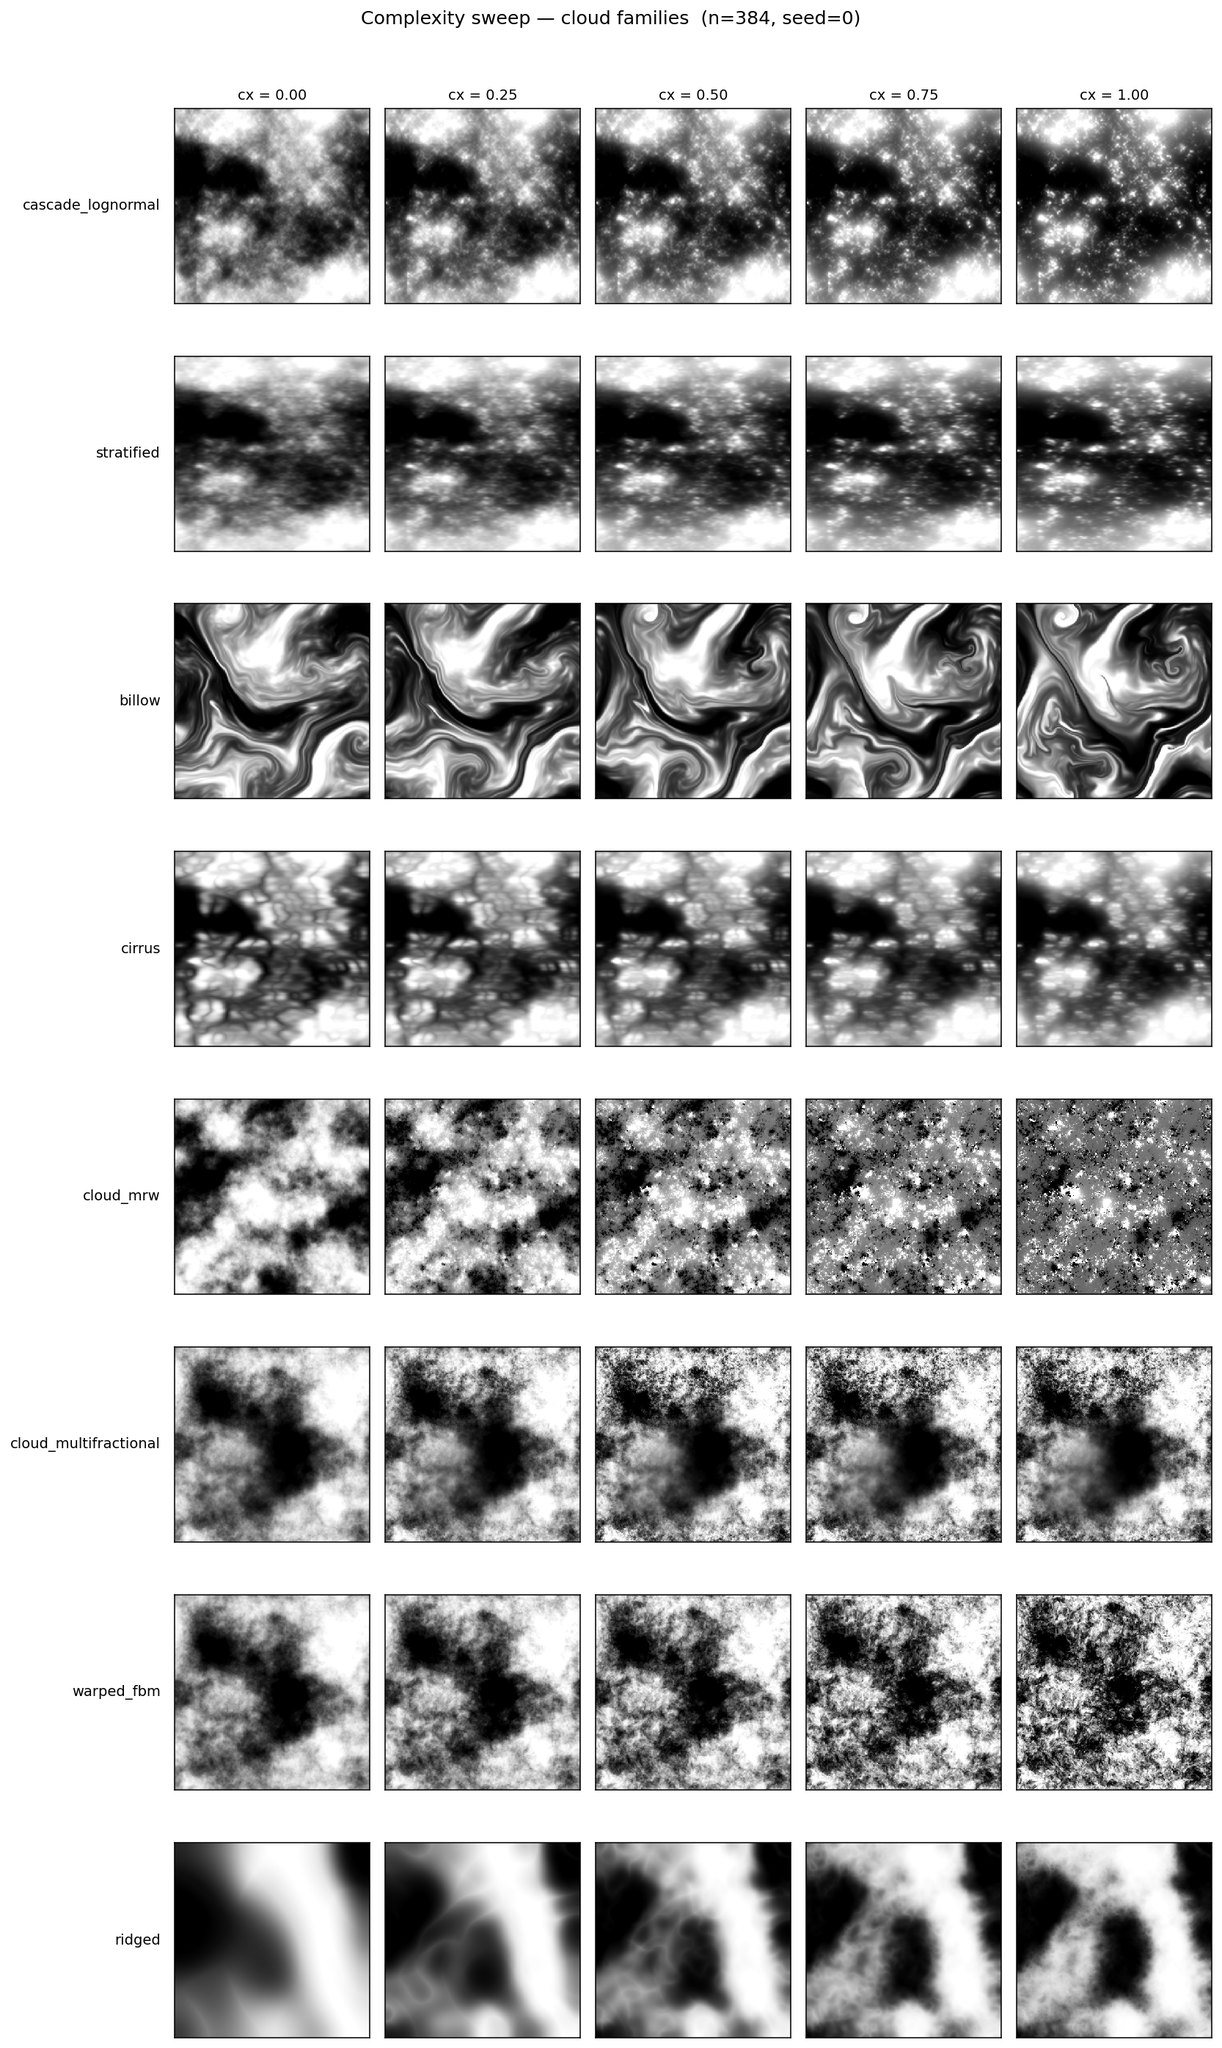
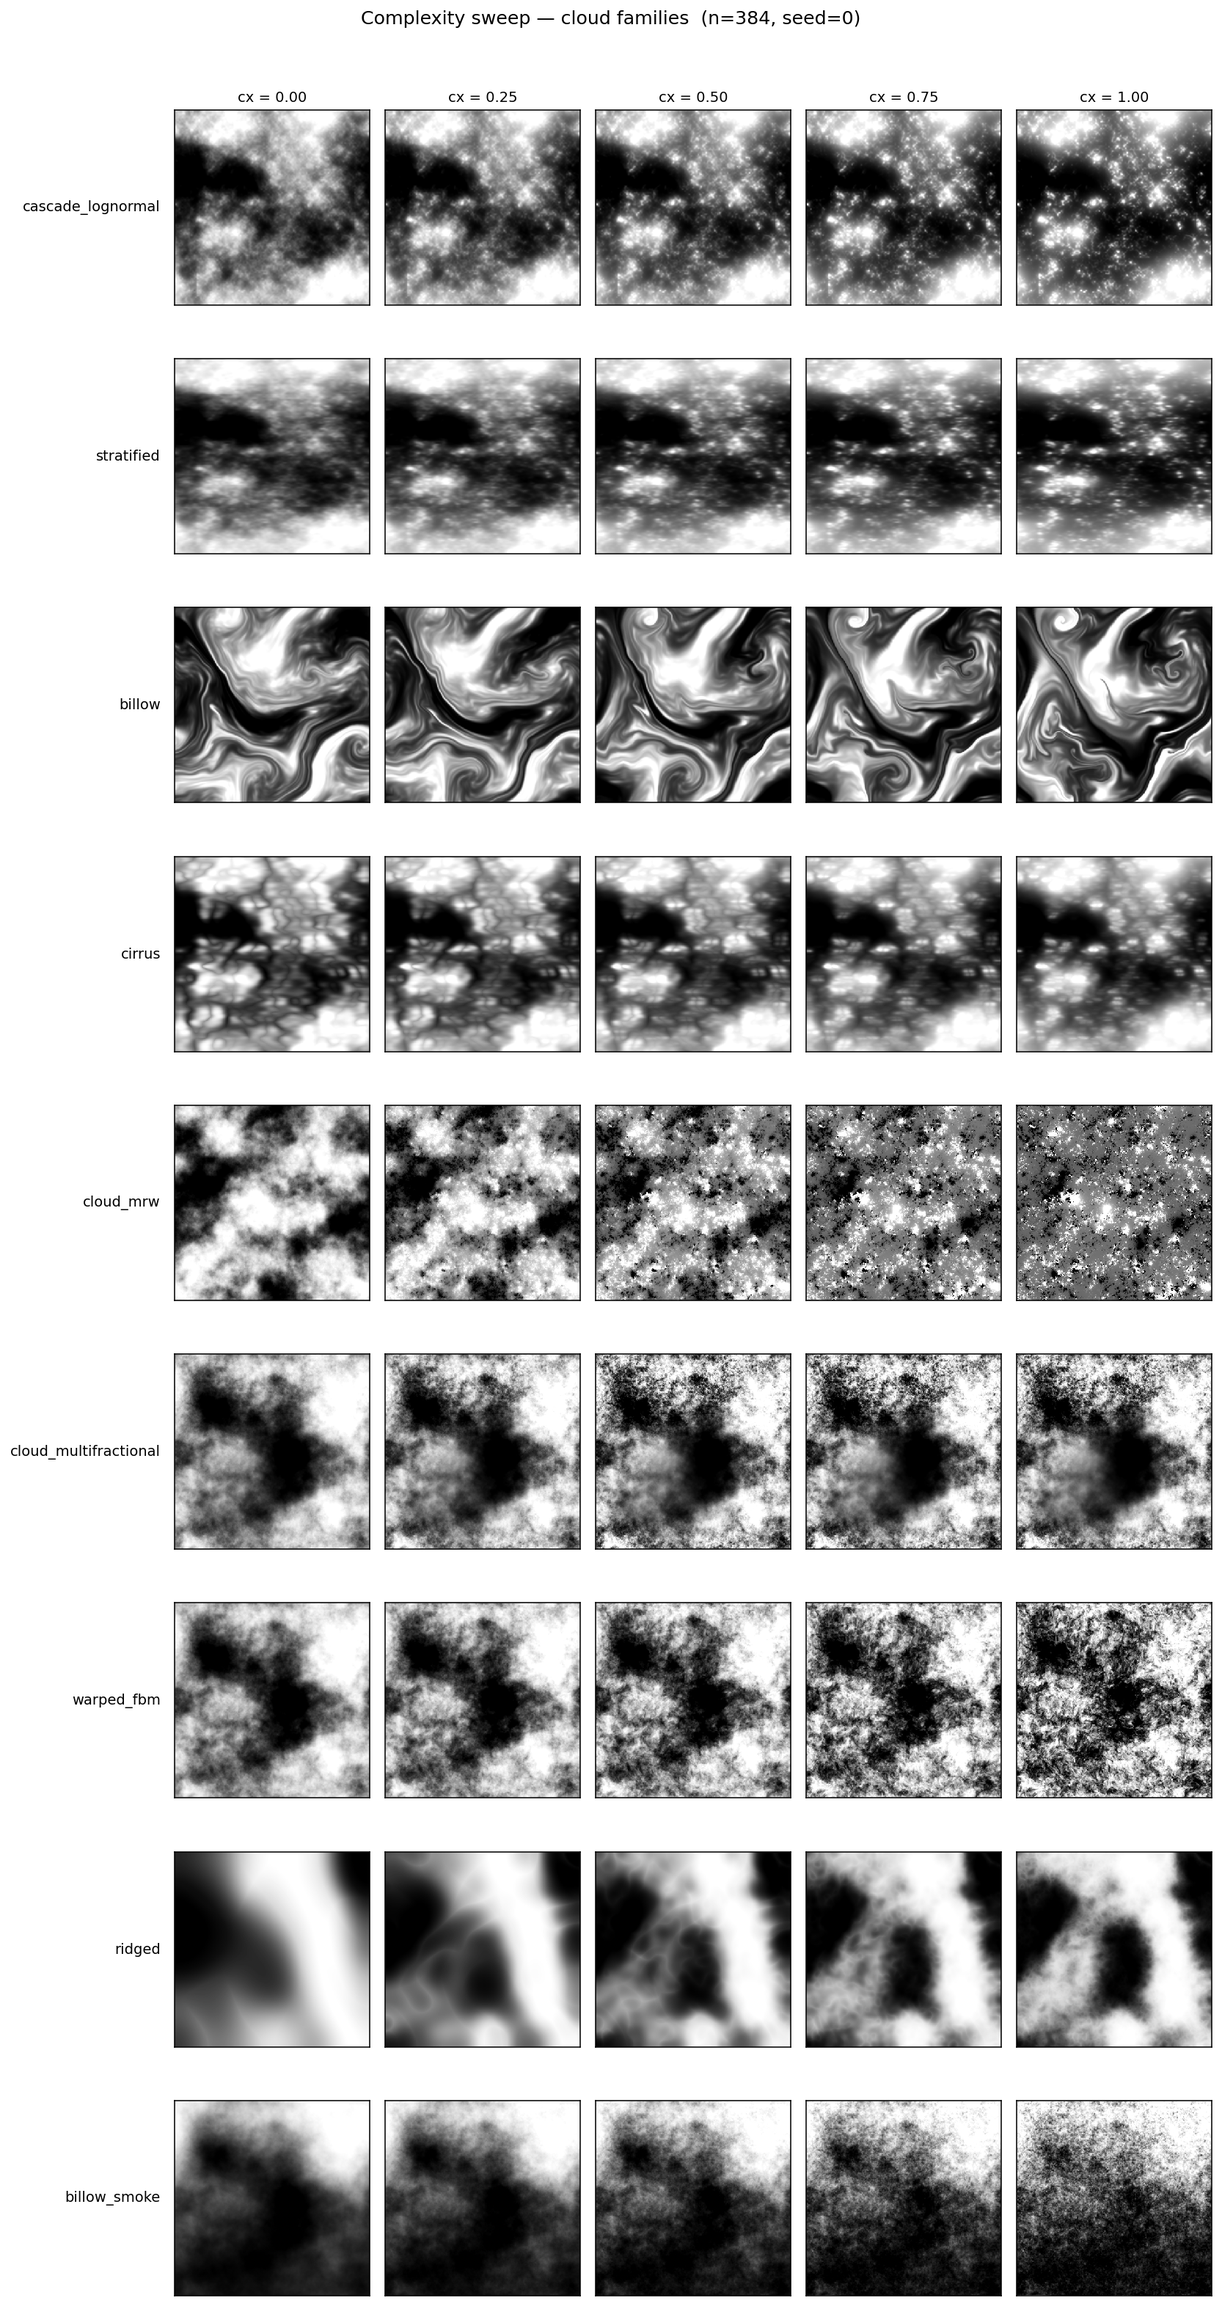
Retire smoke domain: drop chimney_plume, move billow_smoke to clouds
chimney_plume is removed entirely (seed variance never read well across the
column geometry). billow_smoke gets re-homed under the cloud domain — it
behaves like a sky/cloud structure (broad billowing mass, fBM-beta routed)
rather than a distinct substance, and the smoke domain becomes a single-
family ghost without it.

Module surface: mfractal.smoke is deleted; SMOKE_FAMILIES and chimney_plume
no longer exported. CLOUD_FAMILIES grows from 8 to 9. dataset.generate()
routes billow_smoke through the cloud branch (type=cloud in manifests).

Benchmarks (cx + seed sweeps, color montage, descriptors sweep, diffusion
analyze + prompts) all updated to drop the smoke domain. Stale smoke-domain
figures (18_cx_sweep_smoke, 24_seed_sweep_smoke) removed. The historical
diffusion sweep artifacts under benchmarks/diffusion/out/ are left as-is —
they record a frozen sweep at a point in time when smoke was its own
domain.

diff --git a/mfractal/clouds.py b/mfractal/clouds.py
@@ -21,6 +21,7 @@ Reliable multifractality readout is the wavelet-leader c2
 (mfractal.quantify.wavelet_leaders_2d); bin experimental stimuli by MEASURED c2.
 """
 import numpy as np
+from numpy.random import default_rng
 from scipy.ndimage import gaussian_filter, map_coordinates, zoom
 
 from .generators import _normalize01, _fractional_field
@@ -29,12 +30,12 @@ from .fluids import _vortex_flow, _advect
 
 __all__ = [
     "cascade_lognormal", "warped_fbm", "stratified", "billow", "cirrus", "ridged",
-    "cloud_mrw", "cloud_multifractional", "CLOUD_FAMILIES",
+    "cloud_mrw", "cloud_multifractional", "billow_smoke", "CLOUD_FAMILIES",
 ]
 
 CLOUD_FAMILIES = [
     "cascade_lognormal", "stratified", "billow", "cirrus", "ridged",
-    "warped_fbm", "cloud_mrw", "cloud_multifractional",
+    "warped_fbm", "cloud_mrw", "cloud_multifractional", "billow_smoke",
 ]
 
 
@@ -157,3 +158,40 @@ def cloud_multifractional(n=512, seed=None, complexity=0.5):
     f = multifractional(n, fd_center=_L(2.2, 2.7, c), fd_range=_L(0.3, 1.7, c),
                         scale=5.0, seed=seed)
     return _cloud_bright(_normalize01(f))
+
+
+def billow_smoke(n=512, seed=None, complexity=0.5):
+    """Broad rising billowing smoke cloud filling most of the frame.
+
+    complexity in [0,1]: fBM beta sweeps from 4.0 (smooth haze) down to 2.0
+    (turbulent wisps). The rise envelope gets a seed-dependent slant and
+    lateral pinch so different seeds show distinct billow shapes, not just
+    different internal textures.
+    """
+    cx = float(np.clip(complexity, 0, 1))
+    rng = default_rng(seed)
+    yy, xx = np.mgrid[0:n, 0:n].astype(float) / n
+
+    horizon = 0.05 + 0.20 * rng.random()
+    slant = 0.25 * (rng.random() - 0.5) * 2.0
+    pinch_x = 0.3 + 0.4 * rng.random()
+    pinch_w = 0.25 + 0.20 * rng.random()
+    pinch_str = 0.20 + 0.20 * rng.random()
+    rise_y = (1 - yy) + slant * (xx - 0.5)
+    pinch = 1.0 - pinch_str * np.exp(-((xx - pinch_x) ** 2) / (2 * pinch_w ** 2))
+    rise = 0.40 + 0.55 * np.clip(rise_y - horizon, 0, 1) * pinch
+    rise = gaussian_filter(rise, 1.5)
+
+    beta = 4.0 - 2.0 * cx
+    base = _normalize01(_fractional_field(n, beta=beta, seed=seed))
+
+    yyp, xxp = np.mgrid[0:n, 0:n].astype(float)
+    swirl_amp = 22.0 * cx
+    swirl_scale = n / (6.0 + 18.0 * cx)
+    fy = gaussian_filter(rng.normal(0, 1, (n, n)), swirl_scale) * swirl_amp
+    fx = gaussian_filter(rng.normal(0, 1, (n, n)), swirl_scale) * swirl_amp
+
+    field0 = 0.30 * rise + 0.65 * base * rise
+    warped = map_coordinates(field0, [(yyp + fy) % n, (xxp + fx) % n],
+                             order=1, mode="grid-wrap")
+    return _normalize01(warped)

diff --git a/mfractal/__init__.py b/mfractal/__init__.py
@@ -9,7 +9,7 @@ Three process-based organic generators:
 Natural-surface textures for pareidolia (rock / marble / agate / cracked stone):
     from mfractal import rock_texture, marble, agate, weathered, granite, cellular_stone
 """
-from . import generators, quantify, descriptors, stimuli, flagships, organic, textures, fluids, dataset, clouds, bark, smoke, fire, cloudscape as _cloudscape_mod
+from . import generators, quantify, descriptors, stimuli, flagships, organic, textures, fluids, dataset, clouds, bark, fire, cloudscape as _cloudscape_mod
 from .flagships import (multifractal_cloud, multifractional, punch,
                         complexity, sample_battery)
 from .organic import dla, stir_and_fold, branching_network
@@ -27,9 +27,9 @@ from .fluids import (eddies, vorticity, plume, curl_weave, dye_diffusion,
                      rheoscopic, choppy, FLUID_FAMILIES, CX_FLUIDS)
 from .cloudscape import cloudscape, SKY_PALETTES
 from .clouds import (cascade_lognormal, stratified, billow, cirrus, ridged,
-                     warped_fbm, cloud_mrw, cloud_multifractional, CLOUD_FAMILIES)
+                     warped_fbm, cloud_mrw, cloud_multifractional, billow_smoke,
+                     CLOUD_FAMILIES)
 from .bark import burled_oak, riven_oak, BARK_FAMILIES
-from .smoke import chimney_plume, billow_smoke, SMOKE_FAMILIES
 from .fire import firestorm, lava_pool, volcanic_fissure, FIRE_FAMILIES
 from .dataset import build_dataset, validate_dataset, generate
 from .quantify import wavelet_leaders_2d
@@ -42,12 +42,11 @@ from .descriptors import (directional_hurst, anisotropy_index, subband_anisotrop
 __all__ = [
     "generators", "quantify", "stimuli", "flagships", "organic", "textures", "fluids",
     "bark", "burled_oak", "riven_oak", "BARK_FAMILIES",
-    "smoke", "chimney_plume", "billow_smoke", "SMOKE_FAMILIES",
     "fire", "firestorm", "lava_pool", "volcanic_fissure", "FIRE_FAMILIES",
     "eddies", "vorticity", "plume", "curl_weave", "dye_diffusion", "rheoscopic", "choppy", "FLUID_FAMILIES", "CX_FLUIDS",
     "dataset", "build_dataset", "validate_dataset", "generate", "wavelet_leaders_2d",
     "clouds", "cloudscape", "SKY_PALETTES", "CLOUD_FAMILIES", "cascade_lognormal", "stratified", "billow", "cirrus",
-    "ridged", "warped_fbm", "cloud_mrw", "cloud_multifractional",
+    "ridged", "warped_fbm", "cloud_mrw", "cloud_multifractional", "billow_smoke",
     "multifractal_cloud", "multifractional", "punch", "complexity", "sample_battery",
     "dla", "stir_and_fold", "branching_network",
     "rock_texture", "marble", "agate", "weathered", "granite", "cellular_stone",

diff --git a/mfractal/dataset.py b/mfractal/dataset.py
@@ -15,13 +15,12 @@ import csv
 import math
 import numpy as np
 
-from . import textures, fluids, clouds, bark, smoke, fire
+from . import textures, fluids, clouds, bark, fire
 from .textures import ROCK_FAMILIES
 from .fluids import FLUID_FAMILIES
 from .clouds import CLOUD_FAMILIES
 from .fluids import CX_FLUIDS
 from .bark import BARK_FAMILIES
-from .smoke import SMOKE_FAMILIES
 from .fire import FIRE_FAMILIES
 from .flagships import punch
 from .quantify import wavelet_leaders_2d, mfdfa_2d, spectrum_summary
@@ -40,8 +39,6 @@ def generate(family, n=256, complexity=None, seed=None):
         return getattr(clouds, family)(n, seed=seed, complexity=(0.5 if complexity is None else complexity))
     if family in BARK_FAMILIES:
         return getattr(bark, family)(n, seed=seed, complexity=(0.5 if complexity is None else complexity))
-    if family in SMOKE_FAMILIES:
-        return getattr(smoke, family)(n, seed=seed, complexity=(0.5 if complexity is None else complexity))
     if family in FIRE_FAMILIES:
         return getattr(fire, family)(n, seed=seed, complexity=(0.5 if complexity is None else complexity))
     fn = getattr(textures, family)
@@ -85,7 +82,6 @@ def build_dataset(out_dir, families=None, complexities=(0.0, 0.25, 0.5, 0.75, 1.
                        "type": ("fluid" if family in FLUID_FAMILIES
                                 else "cloud" if family in CLOUD_FAMILIES
                                 else "bark" if family in BARK_FAMILIES
-                                else "smoke" if family in SMOKE_FAMILIES
                                 else "fire" if family in FIRE_FAMILIES
                                 else "rock"),
                        "complexity": ("" if c is None else round(c, 4)),

diff --git a/benchmarks/cx_sweep_per_domain.py b/benchmarks/cx_sweep_per_domain.py
@@ -1,17 +1,16 @@
 """
 Complexity sweep for every family, one figure per domain.
 
-For each domain (rock, cloud, fluid, bark, smoke, fire):
+For each domain (rock, cloud, fluid, bark, fire):
   rows    = families in that domain
   columns = complexity values 0.0, 0.25, 0.5, 0.75, 1.0
-  cell    = colorized image via colorize_for_family
+  cell    = grayscale image (mf.punch)
 
 Outputs:
   benchmarks/figures/14_cx_sweep_rock.png
   benchmarks/figures/15_cx_sweep_cloud.png
   benchmarks/figures/16_cx_sweep_fluid.png
   benchmarks/figures/17_cx_sweep_bark.png
-  benchmarks/figures/18_cx_sweep_smoke.png
   benchmarks/figures/19_cx_sweep_fire.png
 """
 from __future__ import annotations
@@ -30,20 +29,18 @@ DOMAIN = {
     "rock":  ["marble","agate","weathered","granite","vesicular","turbulent",
               "schist","serpentinite","flow_banded","convoluted","gneiss"],
     "cloud": ["cascade_lognormal","stratified","billow","cirrus","cloud_mrw",
-              "cloud_multifractional","warped_fbm","ridged"],
+              "cloud_multifractional","warped_fbm","ridged","billow_smoke"],
     "fluid": ["curl_weave","choppy","eddies","vorticity","dye_diffusion","rheoscopic"],
     "bark":  ["burled_oak","riven_oak"],
-    "smoke": ["chimney_plume","billow_smoke"],
     "fire":  ["firestorm","lava_pool","volcanic_fissure"],
 }
 CXS = [0.0, 0.25, 0.5, 0.75, 1.0]
 N = 384
 SEED = 0
 
-# Use figure index 14..19 so we don't collide with existing figures 1..13.
 DOMAIN_FIG_IDX = {
     "rock": 14, "cloud": 15, "fluid": 16,
-    "bark": 17, "smoke": 18, "fire": 19,
+    "bark": 17, "fire": 19,
 }
 
 

diff --git a/benchmarks/seed_sweep_per_domain.py b/benchmarks/seed_sweep_per_domain.py
@@ -1,7 +1,7 @@
 """
 Seed-variation sweep at mid complexity (cx=0.5), one figure per domain.
 
-For each domain (rock, cloud, fluid, bark, smoke, fire):
+For each domain (rock, cloud, fluid, bark, fire):
   rows    = families in that domain
   columns = seeds 0, 1, 2, 3, 4
   cell    = grayscale mf.punch(image)
@@ -11,7 +11,6 @@ Outputs:
   benchmarks/figures/21_seed_sweep_cloud.png
   benchmarks/figures/22_seed_sweep_fluid.png
   benchmarks/figures/23_seed_sweep_bark.png
-  benchmarks/figures/24_seed_sweep_smoke.png
   benchmarks/figures/25_seed_sweep_fire.png
 """
 from __future__ import annotations
@@ -29,10 +28,9 @@ DOMAIN = {
     "rock":  ["marble","agate","weathered","granite","vesicular","turbulent",
               "schist","serpentinite","flow_banded","convoluted","gneiss"],
     "cloud": ["cascade_lognormal","stratified","billow","cirrus","cloud_mrw",
-              "cloud_multifractional","warped_fbm","ridged"],
+              "cloud_multifractional","warped_fbm","ridged","billow_smoke"],
     "fluid": ["curl_weave","choppy","eddies","vorticity","dye_diffusion","rheoscopic"],
     "bark":  ["burled_oak","riven_oak"],
-    "smoke": ["chimney_plume","billow_smoke"],
     "fire":  ["firestorm","lava_pool","volcanic_fissure"],
 }
 SEEDS = [0, 1, 2, 3, 4]
@@ -41,7 +39,7 @@ N = 384
 
 DOMAIN_FIG_IDX = {
     "rock": 20, "cloud": 21, "fluid": 22,
-    "bark": 23, "smoke": 24, "fire": 25,
+    "bark": 23, "fire": 25,
 }
 
 

diff --git a/benchmarks/colorize_all_families.py b/benchmarks/colorize_all_families.py
@@ -20,10 +20,9 @@ DOMAIN = {
     "rock":  ["marble","agate","weathered","granite","vesicular","turbulent",
               "schist","serpentinite","flow_banded","convoluted","gneiss"],
     "cloud": ["cascade_lognormal","stratified","billow","cirrus","cloud_mrw",
-              "cloud_multifractional","warped_fbm","ridged"],
+              "cloud_multifractional","warped_fbm","ridged","billow_smoke"],
     "fluid": ["curl_weave","choppy","eddies","vorticity","dye_diffusion","rheoscopic"],
     "bark":  ["burled_oak","riven_oak"],
-    "smoke": ["chimney_plume","billow_smoke"],
     "fire":  ["firestorm","lava_pool","volcanic_fissure"],
 }
 
@@ -52,7 +51,7 @@ def render():
         ax.set_title(f"{fam}\n[{dom}] · {palette}", fontsize=8)
     for i in range(len(ordered), nrow * NCOL):
         axes[i // NCOL][i % NCOL].axis("off")
-    fig.suptitle("32 families × recommended earthy palettes (cx=0.5, seed=0)",
+    fig.suptitle("31 families × recommended earthy palettes (cx=0.5, seed=0)",
                  fontsize=12, y=1.005)
     fig.tight_layout()
     out = ROOT / "benchmarks" / "figures" / "12_color_montage.png"

diff --git a/benchmarks/descriptors_sweep.py b/benchmarks/descriptors_sweep.py
@@ -31,15 +31,14 @@ DOMAIN = {
     "rock":  ["marble","agate","weathered","granite","vesicular","turbulent",
               "schist","serpentinite","flow_banded","convoluted","gneiss"],
     "cloud": ["cascade_lognormal","stratified","billow","cirrus","cloud_mrw",
-              "cloud_multifractional","warped_fbm","ridged"],
+              "cloud_multifractional","warped_fbm","ridged","billow_smoke"],
     "fluid": ["curl_weave","choppy","eddies","vorticity","dye_diffusion","rheoscopic"],
     "bark":  ["burled_oak","riven_oak"],
-    "smoke": ["chimney_plume","billow_smoke"],
     "fire":  ["firestorm","lava_pool","volcanic_fissure"],
 }
 FAM2DOM = {f: d for d, fs in DOMAIN.items() for f in fs}
 DOMAIN_COLORS = {"rock":"#8c564b","cloud":"#1f77b4","fluid":"#17becf",
-                 "bark":"#7f5d2f","smoke":"#7f7f7f","fire":"#d62728"}
+                 "bark":"#7f5d2f","fire":"#d62728"}
 ALL_FAMS = [f for d in DOMAIN for f in DOMAIN[d]]
 
 # The new descriptors (skip the c1/c2/delta_alpha/alpha0 that have prior figures).

diff --git a/benchmarks/diffusion/analyze.py b/benchmarks/diffusion/analyze.py
@@ -33,15 +33,14 @@ DOMAIN = {
     "rock": ["marble", "agate", "weathered", "granite", "vesicular", "turbulent",
              "schist", "serpentinite", "flow_banded", "convoluted", "gneiss"],
     "cloud": ["cascade_lognormal", "stratified", "billow", "cirrus", "cloud_mrw",
-              "cloud_multifractional", "warped_fbm", "ridged"],
+              "cloud_multifractional", "warped_fbm", "ridged", "billow_smoke"],
     "fluid": ["curl_weave", "choppy", "eddies", "vorticity", "dye_diffusion", "rheoscopic"],
     "bark":  ["burled_oak", "riven_oak"],
-    "smoke": ["chimney_plume", "billow_smoke"],
     "fire":  ["firestorm", "lava_pool", "volcanic_fissure"],
 }
 FAM2DOM = {f: d for d, fs in DOMAIN.items() for f in fs}
 DOMAIN_COLORS = {"rock": "#8c564b", "cloud": "#1f77b4", "fluid": "#17becf",
-                 "bark": "#7f5d2f", "smoke": "#7f7f7f", "fire": "#d62728"}
+                 "bark": "#7f5d2f", "fire": "#d62728"}
 
 
 def load_gray(path: Path, size: int | None = None) -> np.ndarray:

diff --git a/benchmarks/diffusion/prompts.py b/benchmarks/diffusion/prompts.py
@@ -217,14 +217,7 @@ PROMPTS = {
         "old oak floorboard showing wide grain bending around large dark knots, gallery photography",
     ),
 
-    # ---------- SMOKE ----------
-    "chimney_plume": _p(
-        "narrow plume of dark smoke rising from a chimney against a dim sky, dramatic backlight",
-        "thin smoke column rising straight up from a small fire, dusk sky, atmospheric photography",
-        "rising column of campfire smoke, narrow plume, evening forest backlight",
-        "industrial smokestack plume rising vertically, narrow column on overcast sky",
-        "single rising smoke plume from a chimney, narrow opaque column, dawn light",
-    ),
+    # billow_smoke (lives under cloud domain): broad billowing smoke cloud
     "billow_smoke": _p(
         "thick billowing smoke filling the frame, dramatic backlighting, volumetric haze",
         "broad smoke cloud rising from a fire, dense billowing mass, late afternoon backlight",

diff --git a/mfractal/textures.py b/mfractal/textures.py
@@ -299,8 +299,7 @@ FAMILY_PALETTES = {
     # bark
     "burled_oak":           "aged_oak",
     "riven_oak":            "driftwood",
-    # smoke
-    "chimney_plume":        "ash_drift",
+    # billow_smoke (lives in clouds module): keep its smoky haze palette
     "billow_smoke":         "wildfire_haze",
     # fire
     "firestorm":            "ember_glow",

diff --git a/README.md b/README.md
@@ -57,19 +57,18 @@ The full generator + estimator reference lives in
 
 ## Domains & curated families
 
-The toolbox ships 30 + 7 families across six domains. After empirical validation
+The toolbox ships 31 families across five domains. After empirical validation
 on the original 30 (see [`benchmarks/`](benchmarks/)) the **25 curated** families
-below are the recommended ones from that set; the seven post-validation
-**organic** families (bark / smoke / fire) ship in their own modules and have
-been visually validated but not yet swept on the c2 knob.
+below are the recommended ones from that set; the six post-validation
+**organic** families (bark / billow_smoke / fire) ship in their own modules and
+have been visually validated but not yet swept on the c2 knob.
 
 | Domain | Curated families | Notes |
 |---|---|---|
 | **Rock** (11) | marble, agate, weathered, granite, vesicular, turbulent, schist, serpentinite, flow_banded, convoluted, **gneiss** | gneiss = monofractal anchor (rho ~ 0) |
-| **Cloud** (8) | cascade_lognormal, stratified, billow, cirrus, cloud_mrw, cloud_multifractional, **warped_fbm**, ridged | warped_fbm = monofractal anchor; ridged is a structural-detail axis (bin by measured c2 because of a smooth-low-cx wavelet artifact) |
+| **Cloud** (9) | cascade_lognormal, stratified, billow, cirrus, cloud_mrw, cloud_multifractional, **warped_fbm**, ridged, billow_smoke | warped_fbm = monofractal anchor; ridged is a structural-detail axis (bin by measured c2); billow_smoke = broad billowing smoke cloud, fBM-beta routed |
 | **Fluid** (6) | curl_weave, choppy, eddies, vorticity, dye_diffusion, rheoscopic | eddies/vorticity = real 2D Navier-Stokes sims; dye_diffusion is sparse at low cx (bin by measured c2); rheoscopic is a near-monofractal flow-viz texture |
 | **Bark** (2) | burled_oak, riven_oak | intricate-knot wood surfaces; complexity grows knot density / cracks-per-anchor |
-| **Smoke** (2) | chimney_plume, billow_smoke | soft rising plumes; complexity maps to fBM beta (smooth haze -> turbulent wisps) |
 | **Fire** (3) | firestorm, lava_pool, volcanic_fissure | drastic spatial silhouettes: chaotic vortices / Voronoi pools / vertical cracks |
 
 **Dropped** from the original 30 after validation:
